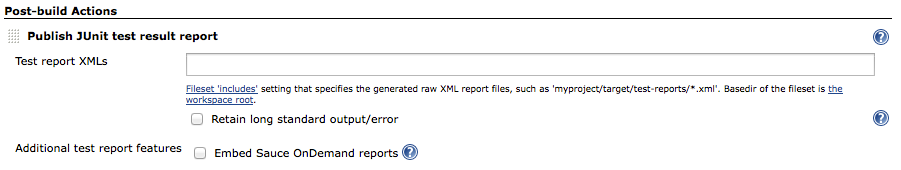
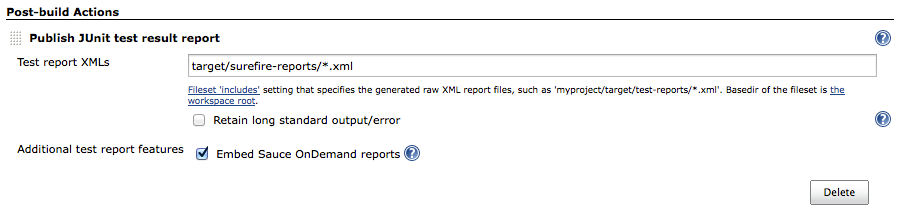
First cut of walkthrough

diff --git a/04-Job-Configuration.md b/04-Job-Configuration.md
@@ -4,15 +4,37 @@ Jenkins Job Configuration
 Freestyle/Maven projects
 ---
 
-To configure the Sauce OnDemand settings for a Jenkins Job, select the `Configure` link on a Job 
+To demonstrate the Sauce plugin for Jenkins, let's create a new Jenkins Freestyle project.
 
-![Job Configure](##job-configure.png?##)
+From the Jenkins dashboard page, click `New Job`
 
-The Sauce OnDemand support for a Jenkins Job can be enabled by checking the `Sauce OnDemand Support` checkbox.
+![New Job](##new-job.png?##)
+
+Enter 'Sauce Java Demo' in the Job Name field and select `Build a free-style software project`.
+
+![New Freestyle Project](##new-freestyle-project.png?##)
+
+Our sample code is located in [github](https://github.com/rossrowe/sauce-ci-java-demo), so select `Git` in the `Source Code Management` section, enter `https://github.com/rossrowe/sauce-ci-java-demo` as the repository URL and enter `master` in the branch specifier.
+
+![Git Setup](##git-setup.png?##)
+
+Now let's add a build step which will run our tests.  Click on the `Add Build Step` menu in the `Build` section, and select `Invoke top-level Maven targets`
+
+![Invoke Maven](##invoke-maven.png?##)
+
+Enter `test` in the `Goals` field.
+
+![Maven Goals](##maven-goal.png?##)
+
+Now let's enable the Sauce OnDemand support for a Jenkins Job can be enabled by checking the `Sauce OnDemand Support` checkbox.
 
 ![Sauce Configure](##sauce-configure.png##)
 
-By selecting the `Enable Sauce Connect?` check box, the Sauce plugin will launch an instance of [Sauce Connect](http://saucelabs.com/docs/sauce-connect) prior to the running of your Job.  This instance will be closed when the Job completes.
+Select the `Enable Sauce Connect?` check box.  When selected, the Sauce plugin will launch an instance of [Sauce Connect](http://saucelabs.com/docs/sauce-connect) prior to the running of your Job.  This instance will be closed when the Job completes.
+
+Click on the `WebDriver` radio button and select a browser to run our tests against (let's pick Firefox 15 running in Windows 2008)
+
+
 
 Sauce OnDemand supports a wide range of browsers, but some browser combinations are only supported for SeleniumRC or WebDriver tests.  The multi-select lists beneath the `SeleniumRC` and `WebDriver` radio buttons are populated by retrieving the list of respective supported browsers via the Sauce REST API.
 
@@ -62,21 +84,6 @@ The values for the `SELENIUM_HOST` and `SELENIUM_PORT` environment variables can
 
 ![Sauce Configure](##sauce-configure.png##)
 
-Multi-configuration projects
----
-
-Jenkins [Multi-configuration projects](https://wiki.jenkins-ci.org/display/JENKINS/Building+a+matrix+project) allow you to run the same build with different input parameters.  The Sauce plugin for Jenkins provides an additional option for multi-configuration projects to specify the browser combination for each build.
-
-To configure this on a multi-configuration job, click on the `Add Axis` button and select either the `Sauce OnDemand WebDriver tests` or `Sauce OnDemand SeleniumRC tests' item.  
-
-![Sauce Configure](##multi-config-matrix.png##)
-
-This will present a list of browser combinations that are supported by Sauce Labs for WebDriver and SeleniumRC.
-
-![WebDriver browsers](##sauce-matrix-webdriver.png##)
-
-For each selected browsers, a separate job will run when the build is invoked.  This job will include  `SELENIUM_PLATFORM`, `SELENIUM_VERSION`, `SELENIUM_BROWER`, and `SELENIUM_DRIVER` system properties which will be set to the corresponding browser.
-
 Embedding Sauce Reports
 ---
 
@@ -90,8 +97,10 @@ From the pop-up menu, select the `Publish JUnit test result report` option.
 
 ![JUnit Post-build action](##junit-post-build-action##)
 
-Enter the path to the test reports that are produced by your Jenkins Job, and check the `Embed Sauce OnDemand reports` checkbox.
+Enter `target/surefire-reports/*.xml` as the path to the test reports that are produced by your Jenkins Job, and check the `Embed Sauce OnDemand reports` checkbox.
 
 ![Embed Sauce Reports](##embed-sauce-reports##)
+
+That's it, our configuration is all setup, let's run the tests!
 
 * _Next_: [Integration with tests](##04-Integration-with-tests.md##)

diff --git a/04-Integration-with-tests.md b/04-Integration-with-tests.md
@@ -1,7 +1,31 @@
 Integrating tests with the Jenkins Sauce OnDemand plugin
 =============
 
-In order to make the most use out of the Sauce Jenkins plugin, the following steps should be performed:
+To run the tests, click the `Build Now` link on the Job navigation pane.  This should compile and run three tests.
+
+Once the build has finished, navigate to the Build Summary page.
+
+![Sauce Build Summary](##sauce-build-summary.png##)
+
+On this page, you will see that links to the Sauce Jobs executed as part of the build are listed. 
+
+![Sauce Summary Links](##sauce-summary-links.png##)
+
+Clicking on one of the links will present a page containing the Sauce report, which will allow you to view the steps performed and watch a video of the test.
+
+![Sauce Report](##sauce-report.png##)
+
+The embedded Sauce reports can also be displayed on the individual test result pages. To view these, click on the `Test Result` link.
+
+![Sauce Test Result](##sauce-test-result.png##)
+
+Navigate to individual test result, and the embedded report will be displayed with the test details.
+
+![Sauce Embed Test Result](##sauce-embed-test-result.png##)
+
+That's it, we've successfully configured Jenkins to run our tests against Sauce OnDemand!
+
+To summarise, in order to make the most use out of the Sauce Jenkins plugin, the following steps should be performed:
 
 * Update tests to reference the environment variables set by the plugin
 * Output the Sauce session id to the stdout to allow the Sauce plugin to associate test results to Sauce Jobs 
@@ -44,3 +68,5 @@ private void printSessionId() {
         String message = String.format("SauceOnDemandSessionID=%1$s job-name=%2$s", (((RemoveWebDriver) driver).getSessionId()).toString(), "some job name");
         System.out.println(message);
     }
+
+* _Next_: [Multi-configuration projects](##05-Multi-configuration.md##)

diff --git a/05-Multi-configuration.md b/05-Multi-configuration.md
@@ -1,0 +1,14 @@
+Multi-configuration projects
+---
+
+Jenkins [Multi-configuration projects](https://wiki.jenkins-ci.org/display/JENKINS/Building+a+matrix+project) allow you to run the same build with different input parameters.  The Sauce plugin for Jenkins provides an additional option for multi-configuration projects to specify the browser combination for each build.
+
+To configure this on a multi-configuration job, click on the `Add Axis` button and select either the `Sauce OnDemand WebDriver tests` or `Sauce OnDemand SeleniumRC tests' item.  
+
+![Sauce Configure](##multi-config-matrix.png##)
+
+This will present a list of browser combinations that are supported by Sauce Labs for WebDriver and SeleniumRC.
+
+![WebDriver browsers](##sauce-matrix-webdriver.png##)
+
+For each selected browsers, a separate job will run when the build is invoked.  This job will include `SELENIUM_PLATFORM`, `SELENIUM_VERSION`, `SELENIUM_BROWER`, and `SELENIUM_DRIVER` system properties which will be set to the corresponding browser.

diff --git a/07-Troubleshooting.md b/07-Troubleshooting.md
@@ -1,3 +1,6 @@
+Next steps and more information
+======
+
 The source code for the plugin is available from [github](https://github.com/jenkinsci/sauce-ondemand-plugin)
 
 Bugs/enhancements/feature requests can be recorded within the [Jira](https://issues.jenkins-ci.org/browse/JENKINS/component/15751) instance, or you can raise a [support request](https://support.saucelabs.com) 

diff --git a/00-Introduction.md b/00-Introduction.md
@@ -14,4 +14,5 @@ Table of Contents
 * [Configuring the Sauce Jenkins plugin](##03-Configuration.md##)
 * [Jenkins Job Configuration](##04-Job-Configuration.md##)
 * [Integration with tests](##04-Integration-with-tests.md##)
+* [Multi-configuration Jobs](##04-Multi-configuration.md##)
 * [Troubleshooting issues with the plugin](##07-Troubleshooting.md##)
